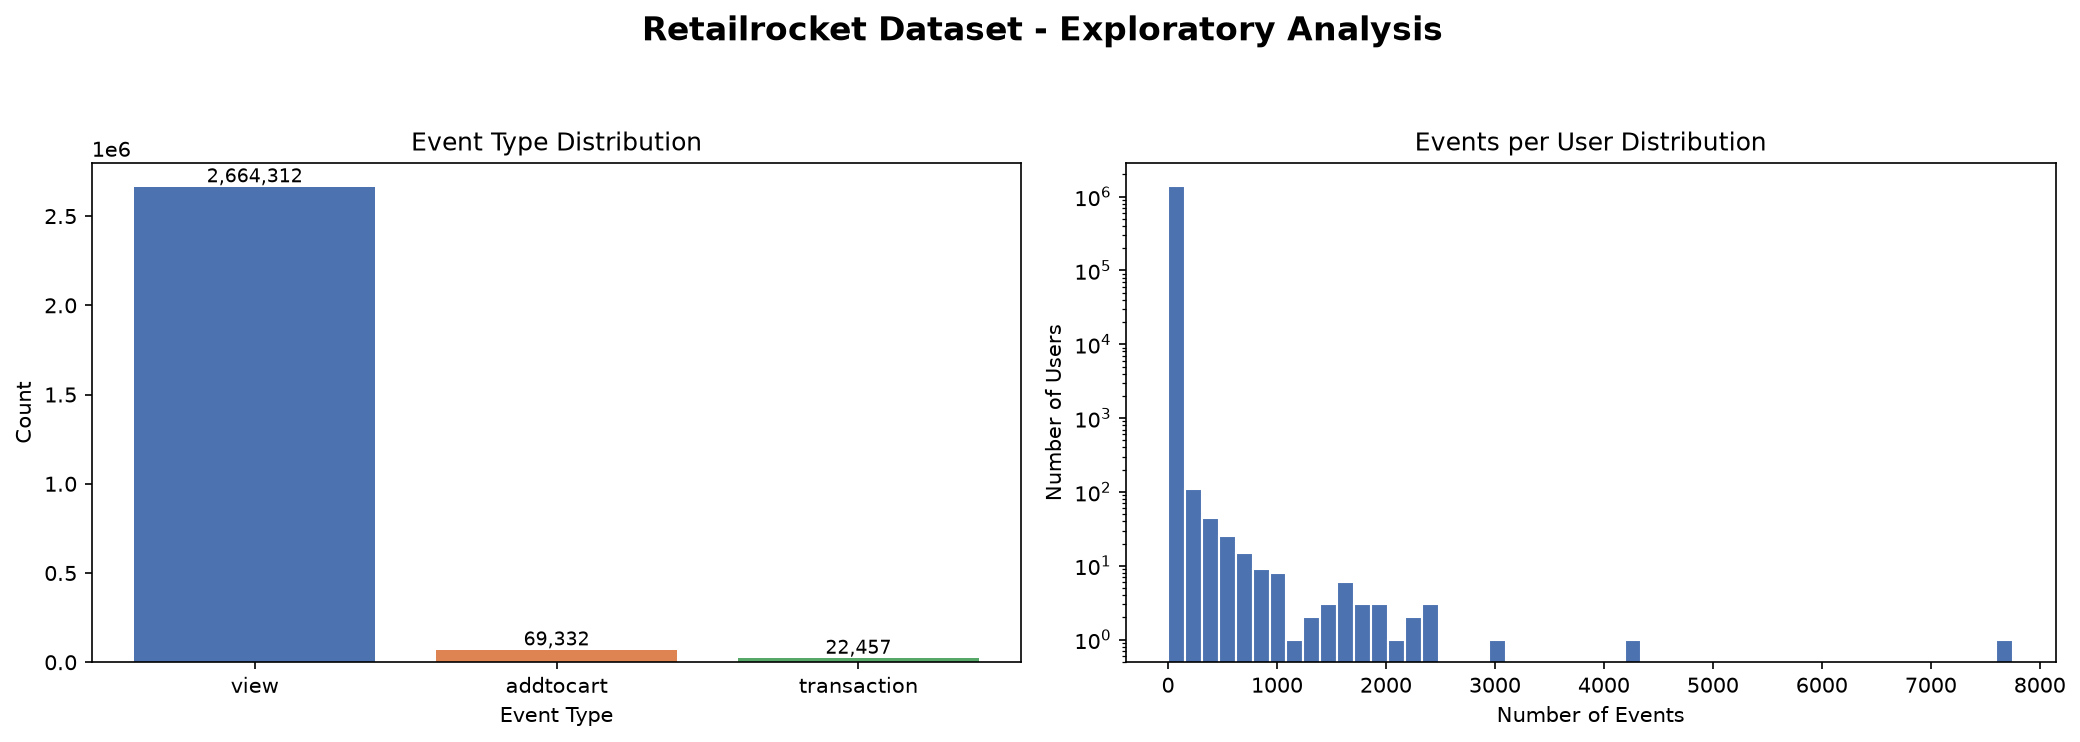
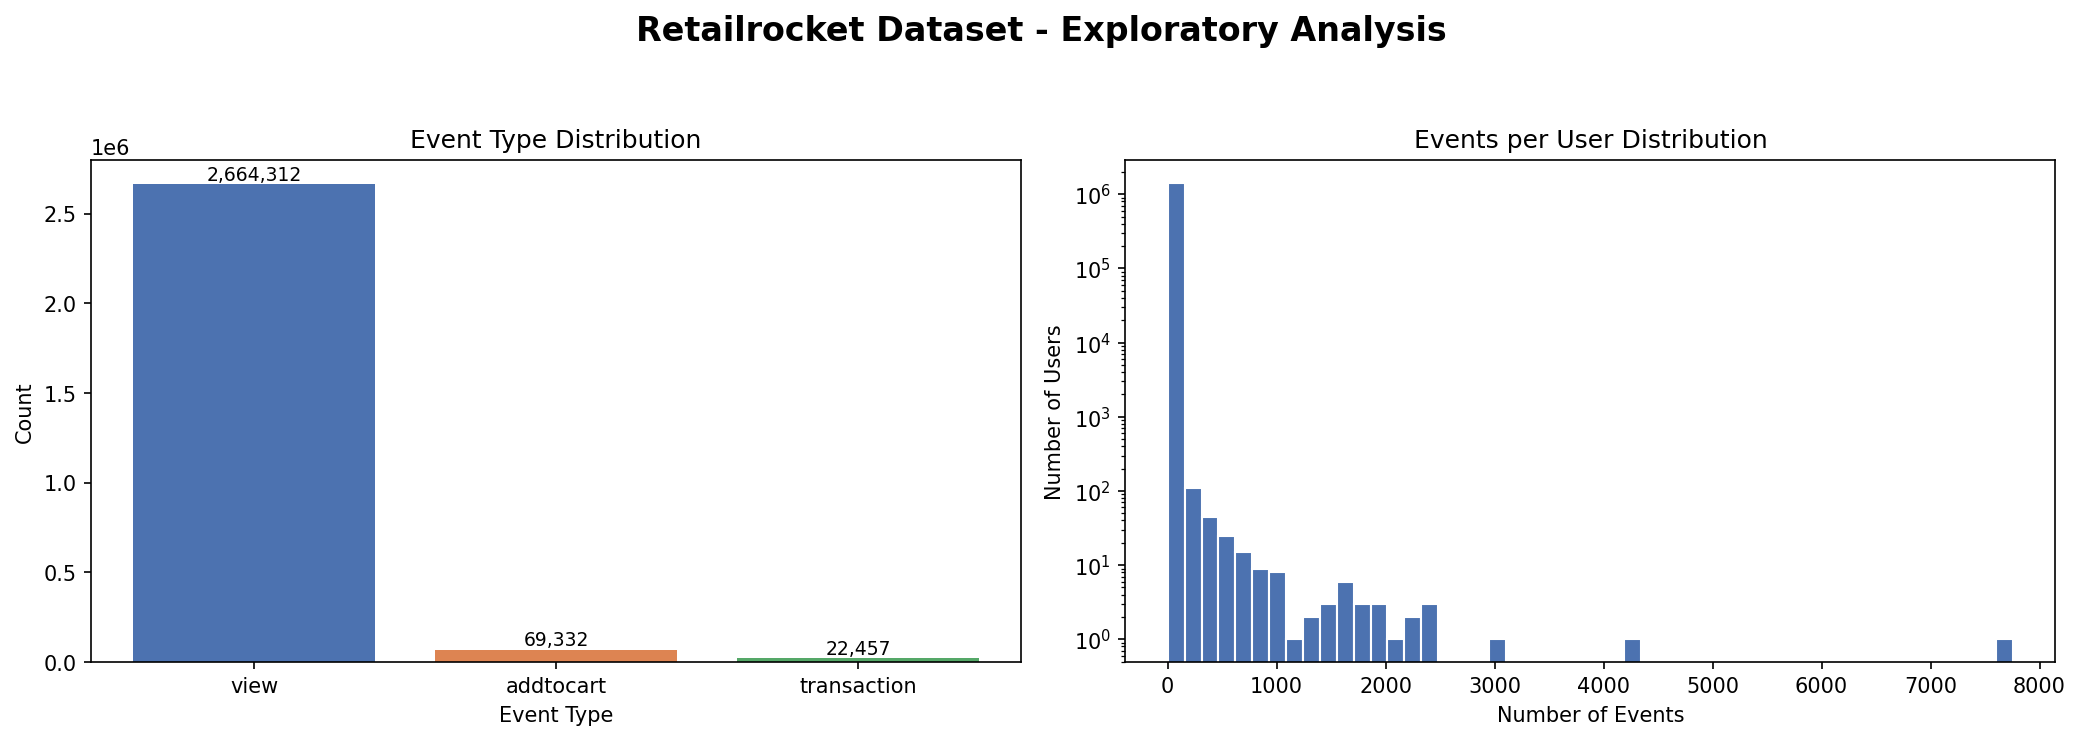
Lab 1.1: refresh script & output

diff --git a/data_exploration.py b/data_exploration.py
@@ -1,8 +1,10 @@
+import os
 import pandas as pd
 import numpy as np
 import matplotlib.pyplot as plt
 import seaborn as sns
 import warnings
+
 warnings.filterwarnings('ignore')
 
 print("=" * 60)
@@ -26,8 +28,8 @@ props2 = pd.read_csv('data/item_properties_part2.csv')
 # Hint: Use pd.concat and remember to ignore the original indexes so they form a continuous sequence
 item_props = pd.concat([props1, props2], ignore_index=True)
 
-print(f"    Events shape      : {events.shape if events is not None else 'Not Implemented'}")
-print(f"    Item props shape  : {item_props.shape if item_props is not None else 'Not Implemented'}")
+print(f"    Events shape      : {events.shape}")
+print(f"    Item props shape  : {item_props.shape}")
 
 
 # ==========================================
@@ -37,13 +39,16 @@ print("\n[2] Event type distribution:")
 
 # TODO: Compute the raw count of each unique value in the 'event' column of the events dataframe
 event_counts = events['event'].value_counts()
-print(event_counts.to_string() if event_counts is not None else "    Not Implemented")
+
+print(event_counts.to_string())
 
 print("\n    As % of total events:")
+
 # TODO: Calculate the percentage distribution of the event types, rounded to 2 decimal places
 # Hint: Divide the event_counts by the total length of the events dataframe and multiply by 100
 event_percentages = ((event_counts / len(events)) * 100).round(2)
-print(event_percentages.to_string() if event_percentages is not None else "    Not Implemented")
+
+print(event_percentages.to_string())
 
 
 # ==========================================
@@ -53,6 +58,7 @@ print("\n[3] Data quality check:")
 
 # TODO: Calculate the total number of missing/null values for each column in the events dataframe
 null_counts = events.isnull().sum()
+
 print(f"    Null values in events:\n{null_counts}")
 
 # TODO: The 'timestamp' column is in milliseconds. Convert it to a readable datetime format.
@@ -60,6 +66,7 @@ print(f"    Null values in events:\n{null_counts}")
 events['datetime'] = pd.to_datetime(events['timestamp'], unit='ms')
 
 print(f"\n    Events date range:")
+
 # TODO: Find and print the minimum and maximum dates in your new 'datetime' column
 print(f"    Start : {events['datetime'].min()}")
 print(f"    End   : {events['datetime'].max()}")
@@ -111,16 +118,19 @@ fig.suptitle(
 
 # --- Left Subplot: Bar Chart of Event Counts ---
 colors = ['#4C72B0', '#DD8452', '#55A868']
+
 # TODO: Plot a bar chart on axes[0] showing the counts of each event type
 # Hint: Use event_counts index for x-axis and values for y-axis
-bars = axes[0].bar(event_counts.index, event_counts.values, color=colors)
-
+bars = axes[0].bar(
+    event_counts.index,
+    event_counts.values,
+    color=colors[:len(event_counts)]
+)
 
 # TODO: Customize axes[0] by setting its Title ("Event Type Distribution"), X-label ("Event Type"), and Y-label ("Count")
 axes[0].set_title("Event Type Distribution")
 axes[0].set_xlabel("Event Type")
 axes[0].set_ylabel("Count")
-
 
 # TODO: (Optional/Bonus challenge for students):
 # Loop through the bars and add a text label displaying the raw count value slightly above each bar
@@ -147,12 +157,10 @@ axes[1].hist(
     edgecolor='white'
 )
 
-
 # TODO: Customize axes[1] by setting its Title ("Events per User Distribution"), X-label ("Number of Events"), and Y-label ("Number of Users")
 axes[1].set_title("Events per User Distribution")
 axes[1].set_xlabel("Number of Events")
 axes[1].set_ylabel("Number of Users")
-
 
 # TODO: Because a few users have massive amounts of events, change the Y-axis scale of axes[1] to logarithmic
 # Hint: Use axes[1].set_yscale()
@@ -162,9 +170,10 @@ axes[1].set_yscale('log')
 # --- Save and Render ---
 # TODO: Adjust the subplot layout automatically to prevent overlap text, save to 'output/01_eda_overview.png' with 150 DPI, and display the plot
 # Hint: use plt.tight_layout(), plt.savefig(), and plt.show()
+os.makedirs('output', exist_ok=True)
+
 plt.tight_layout(rect=[0, 0, 1, 0.93])
 plt.savefig('output/01_eda_overview.png', dpi=150, bbox_inches='tight')
 plt.show()
-
 
 print("    Saved -> output/01_eda_overview.png")
